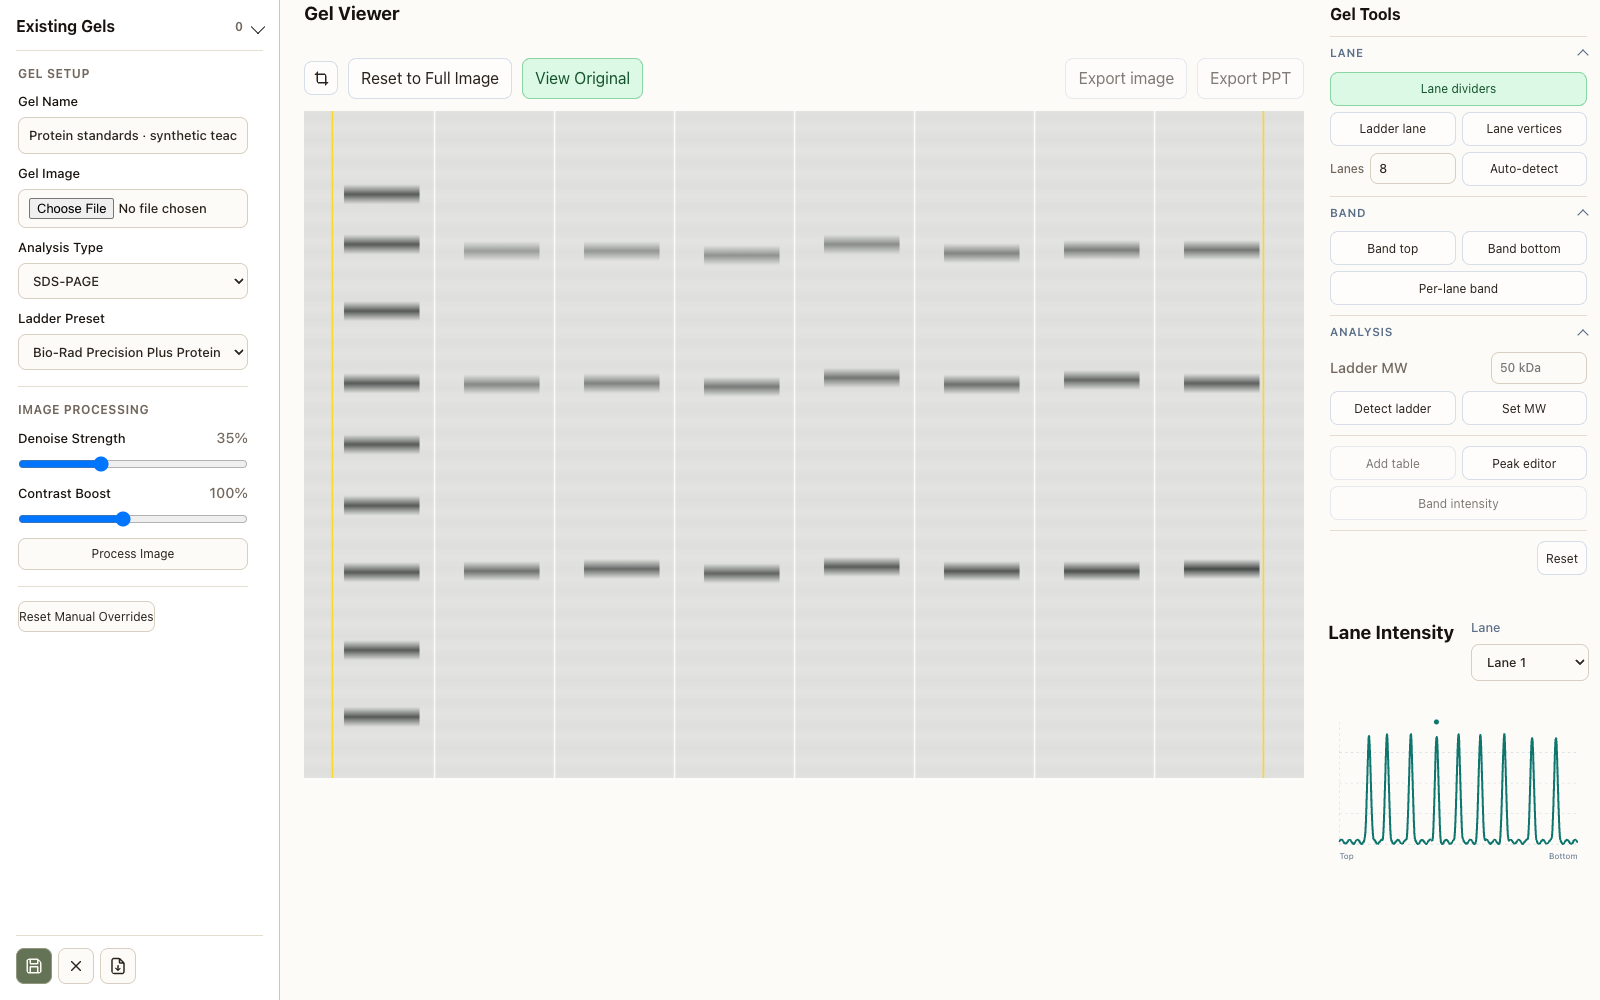
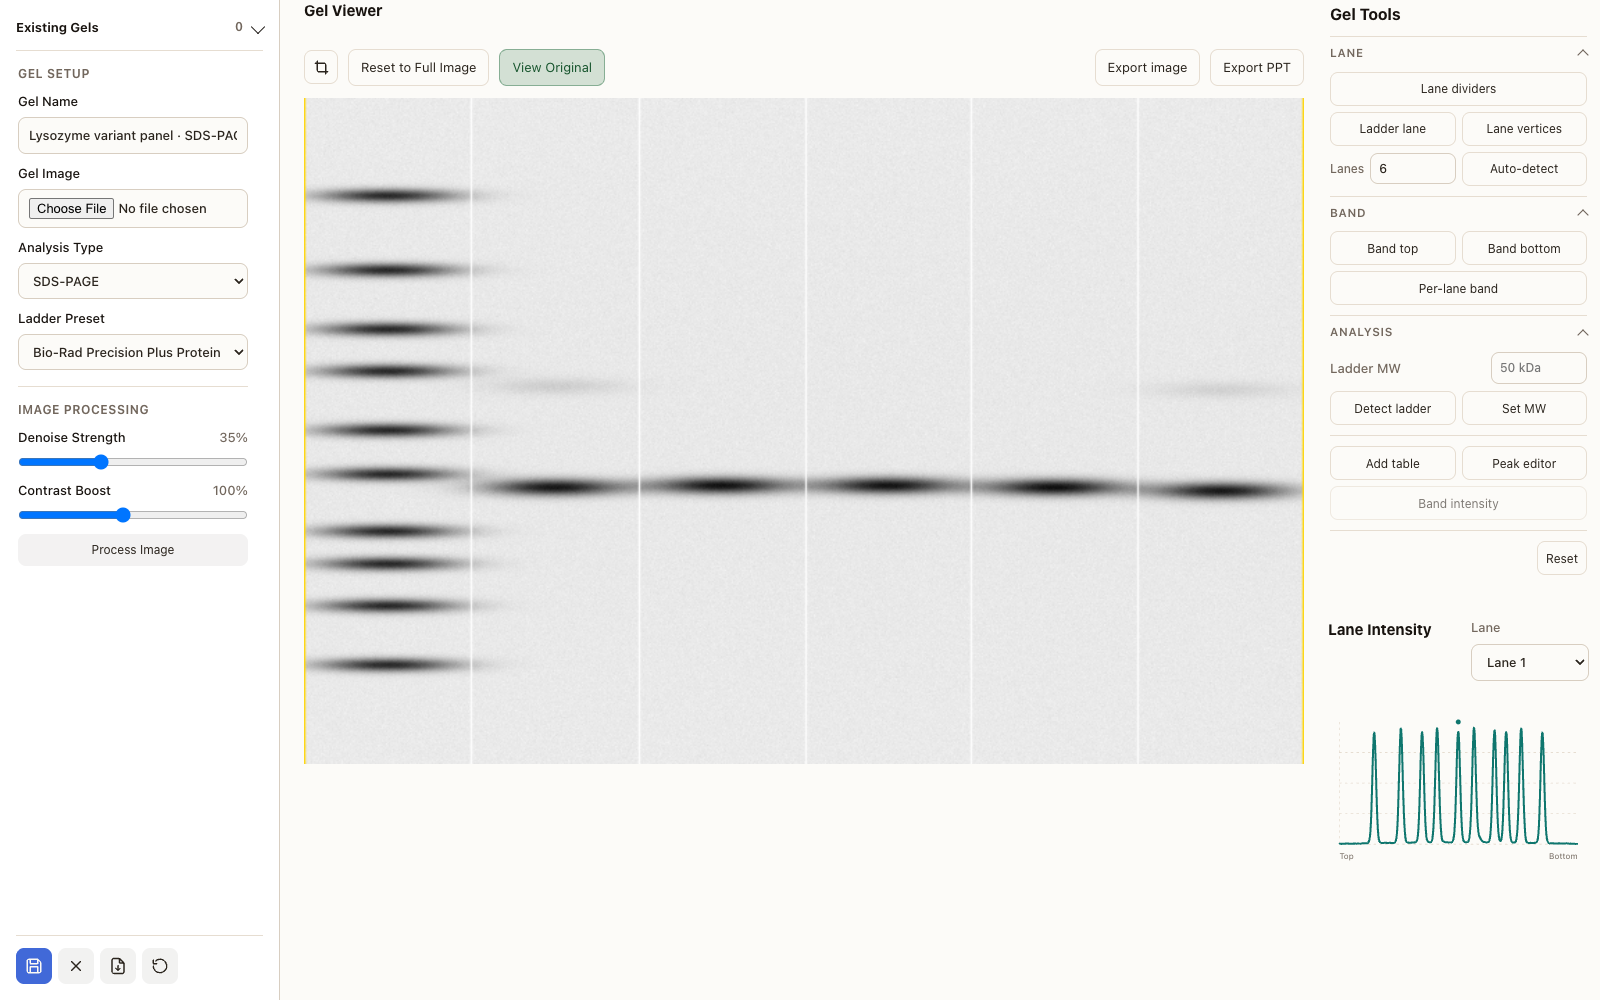
Refresh README screenshots with the current UI
Recapture the seven images the main README uses at 1600x1000 from the
current renderer, with a fictional lysozyme stability project (mock
names, synthetic plate values and gel, a generated teaching PDF, and a
scripted Agent conversation). Update alt text in the README and guide,
and note in docs/screenshots/README.md which images were refreshed.

diff --git a/docs/guide/README.md b/docs/guide/README.md
@@ -124,7 +124,7 @@ Every workspace below is one dock entry. The dock order is the order shown here;
 - **Overnight incubation** — named incubators (managed from the widget itself) with an optional reminder date for tomorrow.
 - **Paper finder** — results of the scheduled literature sweeps you set up from a Notebook project, against your preferred journals, with a **Find papers now** button and one-click download into the library (see [`Papers`](#papers)).
 
-![Hikari Home dashboard with teaching-lab reminders](../screenshots/home.png)
+![Hikari Home dashboard with timers and passage and incubation reminders](../screenshots/home.png)
 
 ### Protocols
 
@@ -153,7 +153,7 @@ Every workspace below is one dock entry. The dock order is the order shown here;
 - **PDF export** — export an entry, with its tables and previews, as a PDF.
 - **Agent rail** — a project-scoped assistant panel docked beside the entry.
 
-![Notebook entry with a yeast growth protocol and observations](../screenshots/notebook-entry.png)
+![Notebook page with an SDS-PAGE protocol and a result table](../screenshots/notebook-entry.png)
 
 ![Project dashboard for a fictional yeast growth practical](../screenshots/notebook-project-dashboard.png)
 
@@ -170,7 +170,7 @@ Every workspace below is one dock entry. The dock order is the order shown here;
 - **Scheduled finding** — recurring searches against the journals configured in `Settings > Preferred Journals`, surfaced on `Home`.
 - **Agent rail** — the assistant panel, scoped to the open paper and project.
 
-![Papers PDF viewer showing a fictional yeast growth teaching handout](../screenshots/papers-viewer.png)
+![Papers PDF viewer showing a fictional thermal shift teaching handout](../screenshots/papers-viewer.png)
 
 ### Samples
 
@@ -220,7 +220,7 @@ Every workspace below is one dock entry. The dock order is the order shown here;
 
 Backend details are in [`docs/agent/README.md`](../agent/README.md).
 
-![Agent workspace with a scripted teaching-lab example conversation](../screenshots/agent-chat.png)
+![Agent chat rail with a scripted example conversation beside a notebook page](../screenshots/agent-chat.png)
 
 ### Sequence Viewer
 
@@ -235,7 +235,7 @@ Backend details are in [`docs/agent/README.md`](../agent/README.md).
 - **Protein Builder** — assemble a protein from blocks and build the DNA sequence back out.
 - **Cloning design** — plan a Gibson/HR assembly or a vector insert, design primers, and export IDT bulk-input blocks or CSV.
 
-![Annotated synthetic classroom reporter sequence](../screenshots/sequence-detail.png)
+![Annotated plasmid sequence in the Sequence Viewer](../screenshots/sequence-detail.png)
 
 ### Assay
 
@@ -251,7 +251,7 @@ Backend details are in [`docs/agent/README.md`](../agent/README.md).
 - **Artifacts** — analysis JSON, chart SVG, and attached result files stored under the storage root.
 - **Agent rail** — the assistant panel, scoped to the open plate.
 
-![Assay plate mapped with synthetic BSA standard concentrations](../screenshots/assay-layout.png)
+![Assay plate mapped with a synthetic inhibitor dilution series](../screenshots/assay-layout.png)
 
 ### Tools
 
@@ -306,7 +306,7 @@ Plugin workspaces run in a sandboxed iframe with a declared permission list, and
 
 It requests only `storage`, `files`, `downloads`, and `layout` — it has no notebook, project, sample, or protocol access. `Notebook` and `Agent` can still *display* saved gel records by reading the plugin's persisted index; that one-way read does not grant the iframe anything.
 
-![Gel workspace with a synthetic teaching gel and detected lanes](../screenshots/gel-analysis.png)
+![Gel workspace with a synthetic SDS-PAGE gel and detected lanes](../screenshots/gel-analysis.png)
 
 ## AI and Agent Setup
 

diff --git a/Readme.md b/Readme.md
@@ -102,7 +102,7 @@ AI runs through the Codex CLI, which is **covered by a ChatGPT subscription**. S
 <table>
 <tr>
 <td width="50%" valign="top">
-<img src="docs/screenshots/notebook-entry.png" alt="Notebook entry with a yeast growth protocol" /><br/>
+<img src="docs/screenshots/notebook-entry.png" alt="Notebook page with an SDS-PAGE protocol and a result table" /><br/>
 <b>Notebook</b>: experiment records that snapshot the protocol you ran
 </td>
 <td width="50%" valign="top">
@@ -112,7 +112,7 @@ AI runs through the Codex CLI, which is **covered by a ChatGPT subscription**. S
 </tr>
 <tr>
 <td width="50%" valign="top">
-<img src="docs/screenshots/assay-layout.png" alt="96-well assay plate layout with a BSA standard" /><br/>
+<img src="docs/screenshots/assay-layout.png" alt="96-well plate layout with an inhibitor dilution series" /><br/>
 <b>Plate</b> (Assay): plate layouts, spreadsheet formulas, and curve fitting
 </td>
 <td width="50%" valign="top">
@@ -126,8 +126,8 @@ AI runs through the Codex CLI, which is **covered by a ChatGPT subscription**. S
 <b>Papers</b>: a local PDF library with comments, summaries, and method extraction
 </td>
 <td width="50%" valign="top">
-<img src="docs/screenshots/agent-chat.png" alt="Agent chat scoped to a project" /><br/>
-<b>Agent</b>: a project-scoped assistant grounded in your records
+<img src="docs/screenshots/agent-chat.png" alt="Agent chat rail beside a notebook page" /><br/>
+<b>Agent</b>: a chat rail scoped to the page you are on, grounded in your records
 </td>
 </tr>
 <tr>

diff --git a/docs/screenshots/README.md b/docs/screenshots/README.md
@@ -2,7 +2,7 @@
 
 These images show the current Hikari renderer with fictional teaching-lab data in an isolated browser session at 1600 × 1000. The bundled Gel workspace is captured from its actual plugin renderer at the same size.
 
-The example records use yeast growth measurements, GFP fluorescence standards, BSA standards, and common laboratory reagents. The DNA sequence, plate values, gel bands, teaching PDF, and Agent conversation were constructed for documentation. They do not represent a real experiment, a functional plasmid, a published paper, or a live model response.
+The seven images used in the main README (home, notebook-entry, agent-chat, sequence-detail, assay-layout, gel-analysis, papers-viewer) were refreshed on 2026-09-30 with a fictional lysozyme stability project: variant names, plate values, the synthetic gel, the teaching PDF, and the Agent conversation were constructed for documentation. The remaining images, used only in the guide, still show the earlier yeast growth and GFP teaching data. None of them represent a real experiment, a functional plasmid, a published paper, or a live model response.
 
 The preview uses in-memory adapters for desktop-only storage, chat-history, sequence-library, and plugin-host calls. Screenshots demonstrate the rendered interfaces, not native persistence or AI execution. No personal storage root, research files, manuscripts, credentials, or private project records were used.
 
